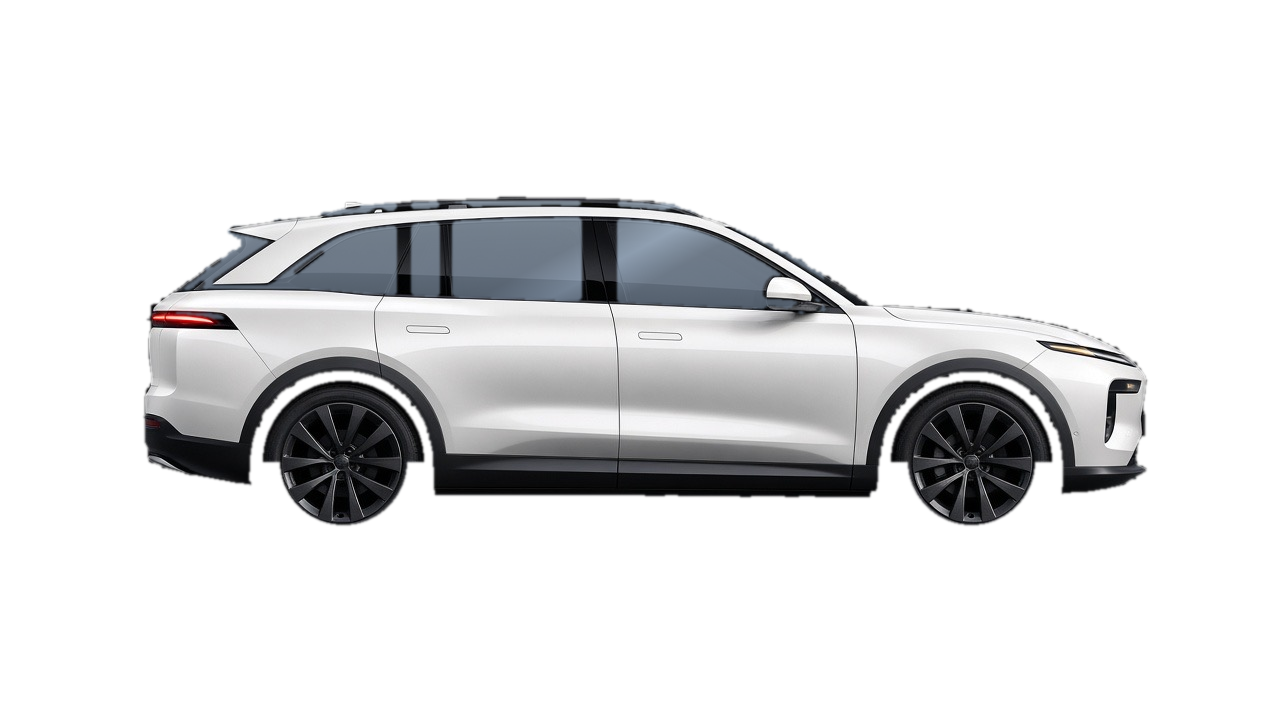
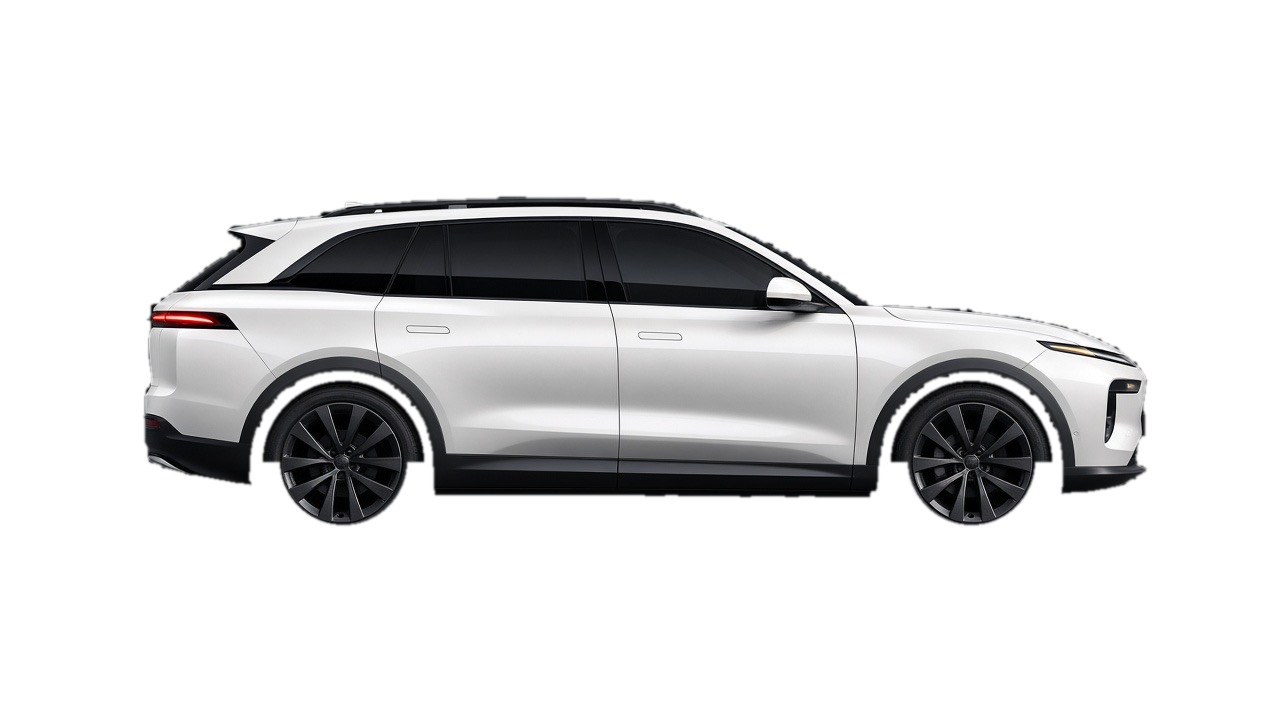
CNIQ vehicle: original photo glass and real tinted glass on the 3D SUV
Restore the side-view photo's own window glass, and give the 3D SUV
near-black tinted glass with mirror reflections instead of a flat,
plastic-looking pane.

Claude-Session: https://claude.ai/code/session_01RJtgHbkEZKKm5heL7LrE2f

Changed region(s): [[0.125, 0.275, 0.6562, 0.4583]]

diff --git a/demos/cniq-mpv-scroll/vehicle.js b/demos/cniq-mpv-scroll/vehicle.js
@@ -347,9 +347,9 @@ const ZONE_MAIN = /* glsl */ `
   czCol = mix(czCol, vec3(0.009), czDarkTrim); czRough = mix(czRough, 0.5, czDarkTrim); czCC = mix(czCC, 0.2, czDarkTrim);
   czCol = mix(czCol, vec3(0.004), czGlossBlack); czRough = mix(czRough, 0.08, czGlossBlack); czCC = mix(czCC, 1.0, czGlossBlack);
   czCol = mix(czCol, vec3(0.05, 0.052, 0.056), czMeshL); czMetal = mix(czMetal, 0.6, czMeshL); czRough = mix(czRough, 0.35, czMeshL);
-  czCol = mix(czCol, vec3(0.06, 0.075, 0.095), czGlass); czRough = mix(czRough, 0.05, czGlass); czCC = mix(czCC, 0.0, czGlass);
-  vec3 czPaneCol = mix(vec3(0.09, 0.105, 0.125), vec3(0.24, 0.28, 0.33), czSky); // clean, clear glass
-  czCol = mix(czCol, czPaneCol, czPane * czGlass); czRough = mix(czRough, 0.42, czPane * czGlass);
+  czCol = mix(czCol, vec3(0.012, 0.014, 0.018), czGlass); czRough = mix(czRough, 0.04, czGlass); czCC = mix(czCC, 1.0, czGlass); czCCR = mix(czCCR, 0.0, czGlass); czCC = mix(czCC, 0.0, czGlass);
+  vec3 czPaneCol = mix(vec3(0.014, 0.016, 0.02), vec3(0.04, 0.046, 0.055), czSky); // real tinted glass: near-black, mirror-like
+  czCol = mix(czCol, czPaneCol, czPane * czGlass); czRough = mix(czRough, 0.04, czPane * czGlass);
   czCol = mix(czCol, vec3(0.002), czPillar); czRough = mix(czRough, 0.38, czPillar); czCC = mix(czCC, 0.0, czPillar);
   // cabin seen through the glass: floor, three seat rows (backrest + cushion), a centre aisle
   float czSeatCol = czBand(czZn, 0.1, 0.56);
@@ -403,10 +403,10 @@ function makeBodyMaterial(uniforms, type) {
       .replace('#include <emissivemap_fragment>', `#include <emissivemap_fragment>\n${ZONE_MAIN}`)
       .replace(
         '#include <lights_physical_fragment>',
-        '#include <lights_physical_fragment>\nmaterial.specularF90 = mix(material.specularF90, 0.16, czGlass);\n#ifdef USE_CLEARCOAT\nmaterial.clearcoat = czCC;\nmaterial.clearcoatRoughness = czCCR;\n#endif\n#ifdef USE_IRIDESCENCE\nmaterial.iridescence *= czPaint;\n#endif',
+        '#include <lights_physical_fragment>\nmaterial.specularF90 = mix(material.specularF90, 1.0, czGlass);\n#ifdef USE_CLEARCOAT\nmaterial.clearcoat = czCC;\nmaterial.clearcoatRoughness = czCCR;\n#endif\n#ifdef USE_IRIDESCENCE\nmaterial.iridescence *= czPaint;\n#endif',
       );
   };
-  mat.customProgramCacheKey = () => `cniq-body-premium-v7-${type}`;
+  mat.customProgramCacheKey = () => `cniq-body-premium-v8-${type}`;
   return mat;
 }
 

diff --git a/demos/cniq-mpv-scroll/README.md b/demos/cniq-mpv-scroll/README.md
@@ -56,7 +56,7 @@ Everything is one scrubbed master timeline, so every effect plays forward and ba
 - **Studio backdrop (dark theme):** a near-black #05070C → #0A0E18 upper field with a faint blue grid fading toward the floor, a vignette and a soft horizon glow; the charcoal floor keeps its fine noise; and a live floor reflection of the car, copied from the WebGL canvas right after each render, mirrored, blurred and faded, shown only at side elevation.
 - **Hero:** the opening frame sits on the night campus backdrop (its layers also lean with the pointer for depth) with the title in a dark Apple-style glass card; the campus hands over to the studio backdrop as the mat rises.
 - **Night campus drive:** from the end of the platform rail to the crane-up, the car drives past an original illustrated IT campus at blue hour: lit office blocks, a gate canopy with a blue LED edge, a glass guard cabin and boom barriers, palms, street lamps, a hedge with bollard lights and a striped kerb, plus soft wet-road reflections. Three SVG strips are generated in `main.js` and slide at different parallax rates with the car. No real logos, signage or buildings are reproduced.
-- **One vehicle, one colour:** the page always shows the electric SUV in Pearl White; there is no vehicle switch and no colour swatches. In side-elevation shots the car is a transparent cutout of the side-view studio photo (`assets/suv-side.png`, black surround keyed out, clean clear glass, black pillars kept), pinned each frame to the 3D SUV's projected wheels with spinning rim discs, a contact shadow and a mirrored floor reflection; the crane-up, plan view and 3D study use the 3D SUV, which has clean glass and a solid painted roof.
+- **One vehicle, one colour:** the page always shows the electric SUV in Pearl White; there is no vehicle switch and no colour swatches. In side-elevation shots the car is a transparent cutout of the side-view studio photo (`assets/suv-side.png`, black surround keyed out, original glass kept), pinned each frame to the 3D SUV's projected wheels with spinning rim discs, a contact shadow and a mirrored floor reflection; the crane-up, plan view and 3D study use the 3D SUV, which has real tinted glass (near-black, mirror-like reflections) and a solid painted roof.
 - **Photo backdrops:** `assets/studio.jpg` behind the studio scenes, `assets/city-night.jpg` for the night drive, and `assets/airport-road.jpg` for the run to the crane-up, each with a slow pan.
 - **Logo-colour lettering:** the second line of each title, eyebrows, card indexes, meters and the workflow line use the logo's electric blues (#5E8FF2 → #8EC2FF), and the hero shows the logo mark beside "CNiQ".
 - **Colour editions:** a picker switches the same vehicle between Pearl White, Cosmos Black, Graphite Grey, Harbour Blue and Champagne Gold (paint and studio reflection tween together). The choice is remembered per viewer; `?edition=cosmos` sets it from the URL.
